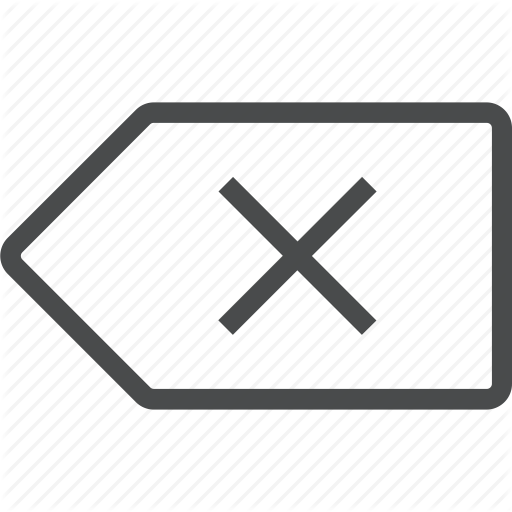
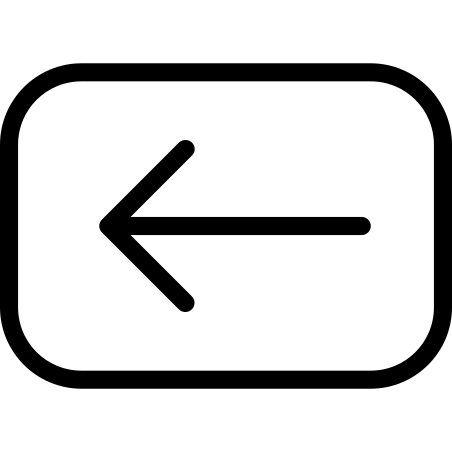
final backend

Changed region(s): [[0.0, 0.1239, 1.0, 0.8673], [0.2168, 0.3097, 0.8363, 0.7124]]

diff --git a/email-script.js b/email-script.js
@@ -4,6 +4,8 @@ space = document.getElementById('space');
 dot = document.getElementById('dot');
 bruksnys = document.getElementById('bruksnys');
 video = document.getElementById('video');
+backspace = document.getElementById('backspace');
+letter = document.getElementById('letter');
 var morseString = "";
 var MORSE_CODE = {".-": "a", "-...":"b", "-.-.": "c", "-..": "d", ".":"e", "..-.":"f", "--.":"g", "....":"h", 
 "..":"i", ".---":"j", "-.-":"k", ".-..":"l", "--":"m", "-.":"n", "---":"o", ".--.":"p", "--.-":"q", ".-.":"r", 
@@ -79,7 +81,6 @@ function sendEmail(morseString) {
 	function buttonclick(){
 		var pagebutton= document.getElementById("selfclick");
 		pagebutton.click();
-		window.location.href = 'home.html';
 
 	}
 
@@ -105,6 +106,8 @@ video.addEventListener('play', () => {
 		dot.style.visibility = 'hidden';
 		bruksnys.style.visibility = 'hidden';
 		space.style.visibility = 'hidden';
+		backspace.style.visibility = 'hidden';
+		letter.style.visibility = 'hidden';
 
 		
 		Object.entries(expressions).forEach(([key, value]) => {
@@ -132,18 +135,23 @@ video.addEventListener('play', () => {
 					
 
 				}
-				else if(key ==='sad' && value > 0.9){
-                    buttonclick();
-                }
-					else if(matuoklis.value.substr(matuoklis.value.length - 1) == 'w'){
+				else if(key ==='sad' && value > 0.5){
+					showImage('backspace');
+					
 					var index = morseString.split(" ");
+					
+					index = index.slice(0, index.length-1);
 					console.log(index);
-					index = index.slice(index.length-2, 2);
+
 					morseString = index.join(" ");
-					// morseString = morseString.substr(0, index-1);
+                }
+				
+				else if(matuoklis.value.substr(matuoklis.value.length - 1) == 'w'){
+						showImage('letter');
+						buttonclick();
+
 				}
-				// . .. .--. ..-
-				// . .. .--. ..-
+		
 		    });
 		}, 1000)
 });

diff --git a/email.html b/email.html
@@ -34,6 +34,8 @@
 	  <img src="./images/space.png" id="space">
 	  <img src="./images/dot.png" id="dot">
 	  <img src="./images/bruksnys.jpeg" id="bruksnys">
+	  <img src="./images/delete.png" id="backspace">
+	  <img src="./images/letter.png" id="letter">
 	</div> 
 	<div class="grid">
 	
@@ -59,12 +61,28 @@
 						<img src="./images/suprised.png" class="smileys">
 					</li>
 					<li>
-						<img src="./images/letter.png" class="smileys">
+						<img src="./images/delete.png" class="smileys">
 						<img src="./images/right.png" class="smileys">
 
 						<img src="./images/sad.jpeg" class="smileys">
 					</li>
-					<li>Noredami istrinti w.</li>
+					<li>
+						
+						<img src="./images/letter.png" class="smileys">
+
+
+						<img src="./images/right.png" class="smileys">
+						<img src="./images/smiley.png" class="smileys">
+
+						<img src="./images/angry.jpeg" class="smileys">
+						<img src="./images/angry.jpeg" class="smileys">
+						<img src="./images/suprised.png" class="smileys">
+
+
+
+
+						
+					</li>
 
 
 				</ul>

diff --git a/email.css b/email.css
@@ -40,6 +40,15 @@ body {
     visibility: hidden;
     display: none;
 }
+#letter{
+    visibility: hidden;
+    display: none;
+}
+
+#backspace{
+    visibility: hidden;
+    display: none;
+}
 
 .paveiksliukai{
     position: fixed;
